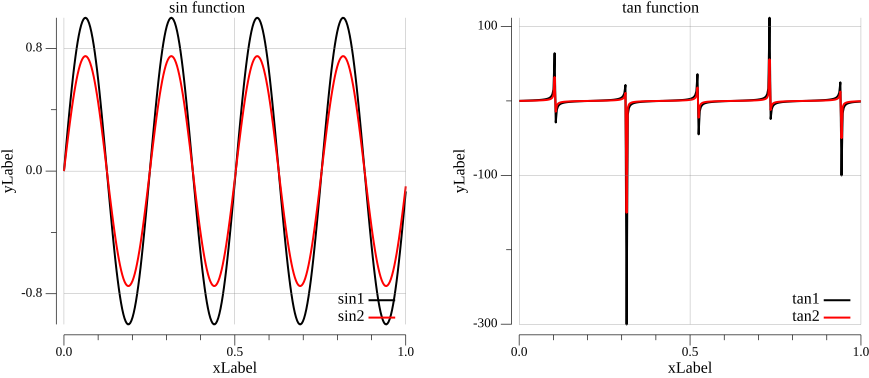
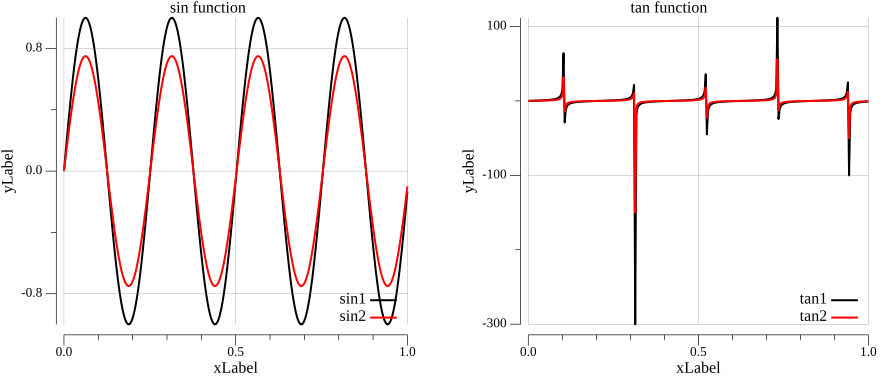
refactor: improve subplot alignment with colorbar support

diff --git a/plotter/subplotter.go b/plotter/subplotter.go
@@ -1,7 +1,10 @@
 package plotter
 
 import (
+	"fmt"
+	"image"
 	"image/color"
+	"image/draw"
 	"log"
 	"os"
 
@@ -11,10 +14,10 @@ import (
 	"gioui.org/op/paint"
 	"gioui.org/unit"
 	"gioui.org/widget"
+	"gonum.org/v1/gonum/floats"
 	"gonum.org/v1/plot"
 	"gonum.org/v1/plot/font"
 	"gonum.org/v1/plot/vg"
-	"gonum.org/v1/plot/vg/draw"
 	"gonum.org/v1/plot/vg/vgimg"
 )
 
@@ -26,9 +29,9 @@ type Subplot interface {
 }
 
 func NewSubplot(rows, cols int) Subplot {
-	subplots := make([][]*plot.Plot, rows)
+	subplots := make([][]*plotParameters, rows)
 	for j := range subplots {
-		subplots[j] = make([]*plot.Plot, cols)
+		subplots[j] = make([]*plotParameters, cols)
 	}
 
 	return &subplotParameters{
@@ -45,41 +48,153 @@ func NewSubplot(rows, cols int) Subplot {
 	}
 }
 
-// initialize each subplot individually
+// initialize each subplot individually: row and column indices are 1-based
 func (plt *subplotParameters) Subplot(row, col int) PlotterInterface {
-	p := plot.New()
-	plt.subplots[row][col] = p
-	return &plotParameters{
-		plot: p,
+	if row < 1 || row > plt.rows {
+		panic(fmt.Sprintf("subplot row out of range: %d", row))
+	}
+	if col < 1 || col > plt.cols {
+		panic(fmt.Sprintf("subplot column out of range: %d", col))
+	}
+
+	// convert to 0-based slice indices
+	row--
+	col--
+
+	pParameters := &plotParameters{
+		plot: plot.New(),
 		line: lineOptions{
 			usedColors: make(map[color.Color]bool),
 		},
 	}
+	plt.subplots[row][col] = pParameters
+
+	return pParameters
 }
 
 // draw plot to a figure
 func (plt *subplotParameters) DrawPlot() {
-	xwidth := font.Length(plt.figSize.xwidth) * vg.Centimeter
-	ywidth := font.Length(plt.figSize.ywidth) * vg.Centimeter
+	xwidth := plt.figSize.xwidth
+	ywidth := plt.figSize.ywidth
 
-	// new image canvas
-	img := vgimg.New(xwidth, ywidth)
+	// padding between adjacent subplots
+	padX := vg.Centimeter
+	padY := vg.Centimeter
 
-	canvases := plot.Align(plt.subplots, draw.Tiles{
-		Rows: plt.rows,
-		Cols: plt.cols,
-		PadX: vg.Centimeter,
-		PadY: vg.Centimeter,
-	}, draw.New(img))
+	// calculate the available size for each subplot.
+	sXWidth := (xwidth - vg.Length(plt.cols-1)*padX) / vg.Length(plt.cols)
+	sYWidth := (ywidth - vg.Length(plt.rows-1)*padY) / vg.Length(plt.rows)
+
+	// spacing between plot and colorbar
+	// calculate the extra space required by vertical and horizontal
+	spacing := font.Length(1.5) * vg.Centimeter
+	spaceVCB := make([]float64, plt.cols)
+	spaceHCB := make([]float64, plt.rows)
+
+	// draw each subplot independently
 	for j := 0; j < plt.rows; j++ {
 		for i := 0; i < plt.cols; i++ {
-			if plt.subplots[j][i] != nil {
-				plt.subplots[j][i].Draw(canvases[j][i])
+			p := plt.subplots[j][i]
+
+			if p.colorbar.show {
+				switch p.colorbar.position {
+				case Vertical:
+					spaceVCB[i] = float64(1.5 * spacing)
+
+				case Horizontal:
+					spaceHCB[j] = float64(spacing)
+				}
+			}
+
+			plt.subplots[j][i].setFigSize(sXWidth, sYWidth)
+			plt.subplots[j][i].DrawPlot()
+		}
+	}
+
+	vColorbar := floats.Sum(spaceVCB)
+	hColorbar := floats.Sum(spaceHCB)
+
+	// new image canvas including the space required by the colorbars
+	img := vgimg.New(1.02*xwidth+font.Length(vColorbar), ywidth+font.Length(hColorbar))
+
+	// compose the individually rendered subplots into the final figure
+	plt.Align(padX, padY, img)
+	plt.figure = vgimg.PngCanvas{Canvas: img}
+}
+
+// compose subplot images into the final figure
+func (plt *subplotParameters) Align(padX, padY vg.Length, img *vgimg.Canvas) {
+	dst := img.Image()
+
+	totalWidth := dst.Bounds().Dx()
+	totalHeight := dst.Bounds().Dy()
+
+	xwidth, ywidth := img.Size()
+
+	// convert the subplot padding from Gonum units to pixels
+	padXpx := int(float64(padX) / float64(xwidth) * float64(totalWidth))
+	padYpx := int(float64(padY) / float64(ywidth) * float64(totalHeight))
+
+	// determine the required width of each column and height of each row
+	// colorbars are already included in the rendered subplot images
+	colWidths := make([]int, plt.cols)
+	rowHeights := make([]int, plt.rows)
+	for j := 0; j < plt.rows; j++ {
+		for i := 0; i < plt.cols; i++ {
+			p := plt.subplots[j][i]
+			if p == nil || p.figure.Image() == nil {
+				continue
+			}
+			bounds := p.figure.Image().Bounds()
+			width := bounds.Dx()
+			height := bounds.Dy()
+			if width > colWidths[i] {
+				colWidths[i] = width
+			}
+			if height > rowHeights[j] {
+				rowHeights[j] = height
 			}
 		}
 	}
 
-	plt.figure = vgimg.PngCanvas{Canvas: img}
+	// calculate the horizontal position of each column
+	colX := make([]int, plt.cols)
+	for i := 1; i < plt.cols; i++ {
+		colX[i] = colX[i-1] + colWidths[i-1] + padXpx
+	}
+	// calculate the vertical position of each row
+	rowY := make([]int, plt.rows)
+	for j := 1; j < plt.rows; j++ {
+		rowY[j] = rowY[j-1] + rowHeights[j-1] + padYpx
+	}
+
+	// copy each rendered subplot image into its corresponding position
+	for j := 0; j < plt.rows; j++ {
+		for i := 0; i < plt.cols; i++ {
+			p := plt.subplots[j][i]
+			if p == nil {
+				continue
+			}
+			src := p.figure.Image()
+			if src == nil {
+				continue
+			}
+			x := colX[i]
+			y := rowY[j]
+			draw.Draw(
+				dst,
+				image.Rect(
+					x,
+					y,
+					x+src.Bounds().Dx(),
+					y+src.Bounds().Dy(),
+				),
+				src,
+				src.Bounds().Min,
+				draw.Over,
+			)
+		}
+	}
 }
 
 // show plot in graphical window
@@ -144,6 +259,6 @@ func (plt *subplotParameters) Save(file string) {
 
 // size of the saved figure
 func (plt *subplotParameters) FigSize(xwidth, ywidth int) {
-	plt.figSize.xwidth = xwidth
-	plt.figSize.ywidth = ywidth
+	plt.figSize.xwidth = font.Length(xwidth) * vg.Centimeter
+	plt.figSize.ywidth = font.Length(ywidth) * vg.Centimeter
 }

diff --git a/plotter/models.go b/plotter/models.go
@@ -6,6 +6,7 @@ import (
 	"gioui.org/app"
 	"gonum.org/v1/gonum/mat"
 	"gonum.org/v1/plot"
+	"gonum.org/v1/plot/font"
 	"gonum.org/v1/plot/palette"
 	"gonum.org/v1/plot/vg/vgimg"
 )
@@ -27,12 +28,20 @@ type plotParameters struct {
 type subplotParameters struct {
 	rows     int
 	cols     int
-	subplots [][]*plot.Plot  // plots for subplot
-	figSize  figSize         // xwidth and ywidth of the saved figure
-	figure   vgimg.PngCanvas // figure to plot and savev
+	subplots [][]*plotParameters //  plots for subplot
+	figSize  figSize             // xwidth and ywidth of the saved figure
+	figure   vgimg.PngCanvas     // figure to plot and save
 }
 
-type figSize struct{ xwidth, ywidth int }
+type figSize struct {
+	xwidth, ywidth font.Length
+}
+
+// set figure size using Gonum units
+func (plt *plotParameters) setFigSize(xwidth, ywidth font.Length) {
+	plt.figSize.xwidth = xwidth
+	plt.figSize.ywidth = ywidth
+}
 
 // struct that defines methods to match the GridXYZ interface defined in gonum plot library
 // used in heatmap and contour plots

diff --git a/plotter/plotter.go b/plotter/plotter.go
@@ -103,8 +103,8 @@ func (plt *plotParameters) ImShow(x []*mat.Dense) {
 
 // draw plot to a figure
 func (plt *plotParameters) DrawPlot() {
-	xwidth := font.Length(plt.figSize.xwidth) * vg.Centimeter
-	ywidth := font.Length(plt.figSize.ywidth) * vg.Centimeter
+	xwidth := plt.figSize.xwidth
+	ywidth := plt.figSize.ywidth
 
 	// new image canvas
 	img := vgimg.New(1.02*xwidth, ywidth)
@@ -213,8 +213,8 @@ func (plt *plotParameters) Clear() {
 
 // size of the saved figure
 func (plt *plotParameters) FigSize(xwidth, ywidth int) {
-	plt.figSize.xwidth = xwidth
-	plt.figSize.ywidth = ywidth
+	plt.figSize.xwidth = font.Length(xwidth) * vg.Centimeter
+	plt.figSize.ywidth = font.Length(ywidth) * vg.Centimeter
 }
 
 // title for all plots

diff --git a/examples/subplot/subplot.go b/examples/subplot/subplot.go
@@ -24,7 +24,7 @@ func main() {
 	plt := plotter.NewSubplot(1, 2)
 	plt.FigSize(23, 10)
 
-	subplt := plt.Subplot(0, 0)
+	subplt := plt.Subplot(1, 1)
 	subplt.Plot(x.RawMatrix().Data, func1.RawMatrix().Data)
 	subplt.Plot(x.RawMatrix().Data, func2.RawMatrix().Data)
 	subplt.Title("sin function")
@@ -33,7 +33,7 @@ func main() {
 	subplt.Legend("sin1", "sin2")
 	subplt.Grid()
 
-	subplt = plt.Subplot(0, 1)
+	subplt = plt.Subplot(1, 2)
 	subplt.Plot(x.RawMatrix().Data, func3.RawMatrix().Data)
 	subplt.Plot(x.RawMatrix().Data, func4.RawMatrix().Data)
 	subplt.Title("tan function")

diff --git a/README.md b/README.md
@@ -309,8 +309,8 @@ func main() {
 	plt := plotter.NewSubplot(1, 2)
 	plt.FigSize(23, 10)
 
-	// first subplot (0, 0)
-	subplt := plt.Subplot(0, 0)
+	// first subplot (1, 1)
+	subplt := plt.Subplot(1, 1)
 	subplt.Plot(x.RawMatrix().Data, func1.RawMatrix().Data)
 	subplt.Plot(x.RawMatrix().Data, func2.RawMatrix().Data)
 	subplt.Title("Sine Function")
@@ -319,8 +319,8 @@ func main() {
 	subplt.Legend("sin1", "sin2")
 	subplt.Grid()
 
-	// second subplot (0, 1)
-	subplt = plt.Subplot(0, 1)
+	// second subplot (1, 2)
+	subplt = plt.Subplot(1, 2)
 	subplt.Plot(x.RawMatrix().Data, func3.RawMatrix().Data)
 	subplt.Plot(x.RawMatrix().Data, func4.RawMatrix().Data)
 	subplt.Title("Tangent Function")
